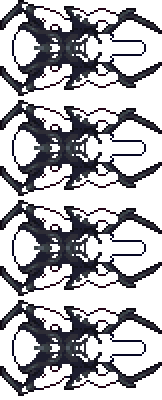
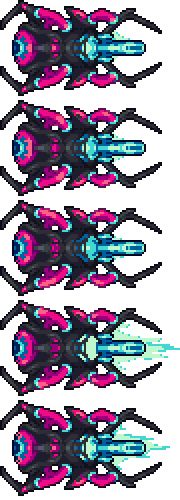
Small edits, cyvercry anim, background changes
meme

diff --git a/Items/Weapons/Ranged/GlassPulseBow.cs b/Items/Weapons/Ranged/GlassPulseBow.cs
@@ -1,0 +1,34 @@
+using System;
+using Microsoft.Xna.Framework;
+using Terraria;
+using Terraria.ID;
+using Terraria.ModLoader;
+
+namespace AerovelenceMod.Items.Weapons.Ranged
+{
+    public class GlassPulseBow : ModItem
+    {
+		public override void SetStaticDefaults()
+		{
+			DisplayName.SetDefault("Glass Pulse Bow");
+		}
+        public override void SetDefaults()
+        {
+			item.shootSpeed = 24f;
+			item.crit = 8;
+            item.damage = 30;
+            item.ranged = true;
+            item.width = 32;
+            item.height = 32;
+            item.useTime = 20;
+            item.useAnimation = 20;
+			item.UseSound = SoundID.Item5;
+            item.useStyle = ItemUseStyleID.HoldingOut;
+            item.knockBack = 4;
+            item.value = Item.sellPrice(0, 0, 35, 20);
+            item.rare = ItemRarityID.Green;
+			item.shoot = ProjectileID.LunarFlare;
+            item.autoReuse = true;
+        }
+    }
+}

diff --git a/NPCs/Bosses/Cyvercry/Cyvercry.cs b/NPCs/Bosses/Cyvercry/Cyvercry.cs
@@ -30,7 +30,7 @@ namespace AerovelenceMod.NPCs.Bosses.Cyvercry //Change me
         public override void SetStaticDefaults()
         {
             DisplayName.SetDefault("Cyvercry"); //DONT Change me
-            Main.npcFrameCount[npc.type] = 4;
+            Main.npcFrameCount[npc.type] = 5;
         }
 
         public override bool CheckActive()
